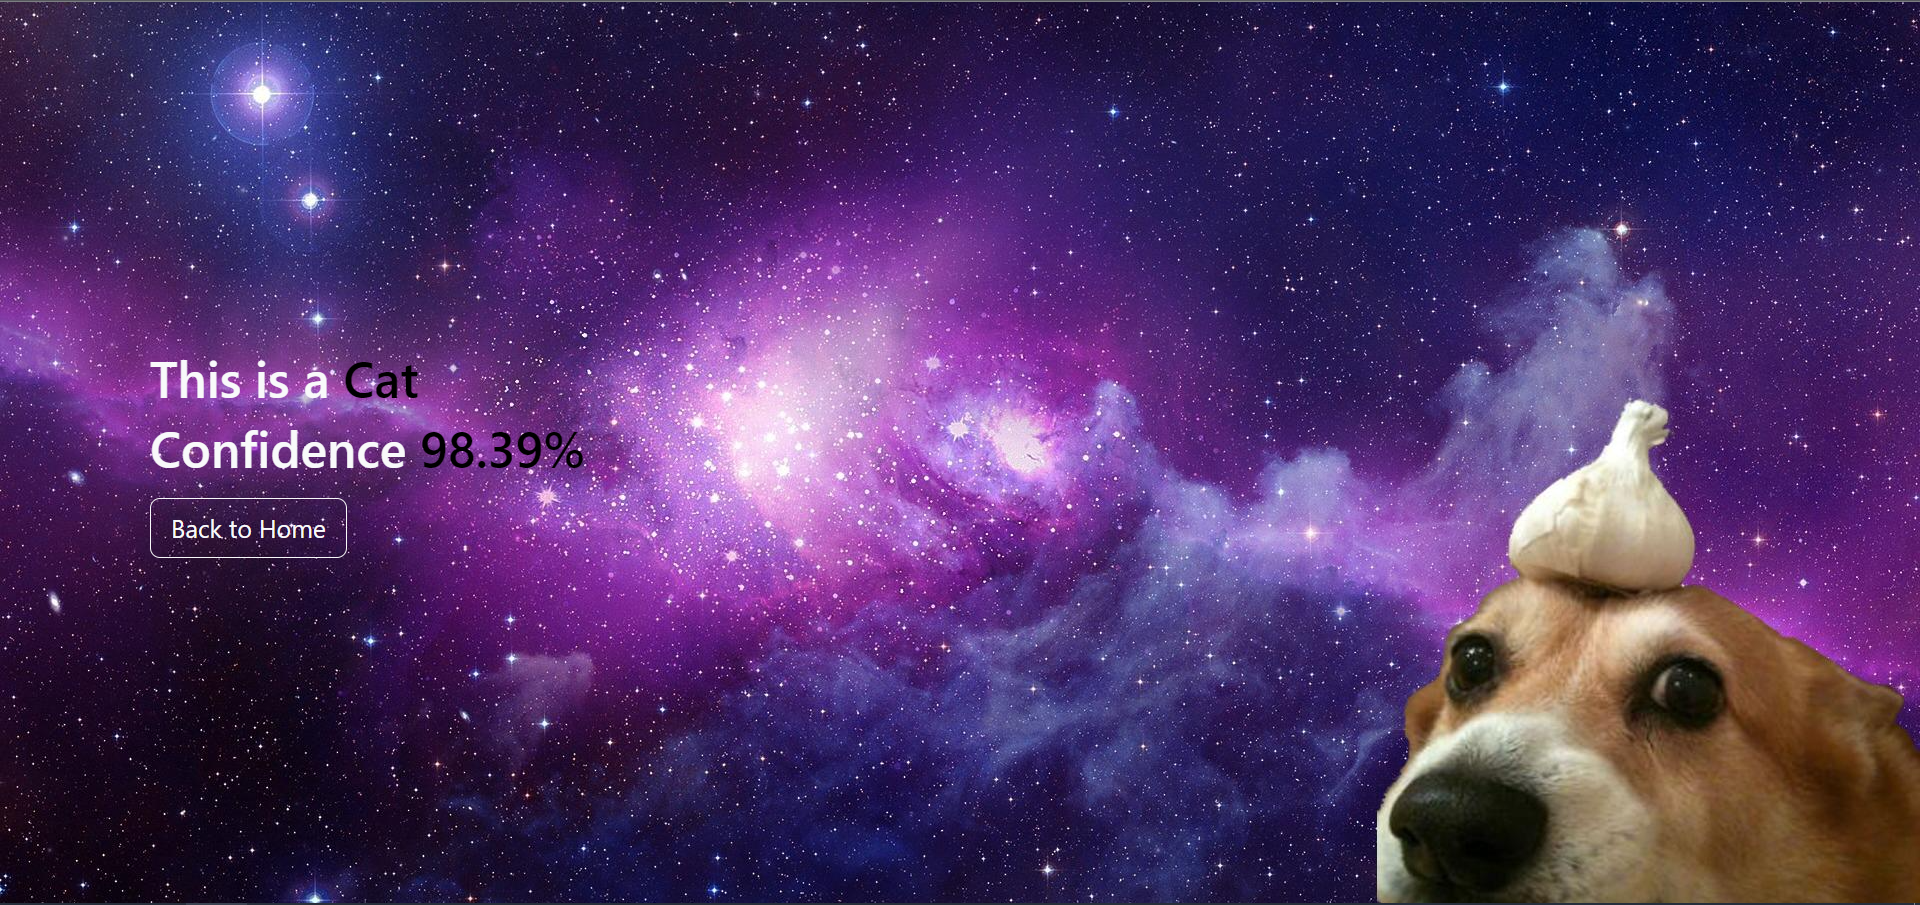
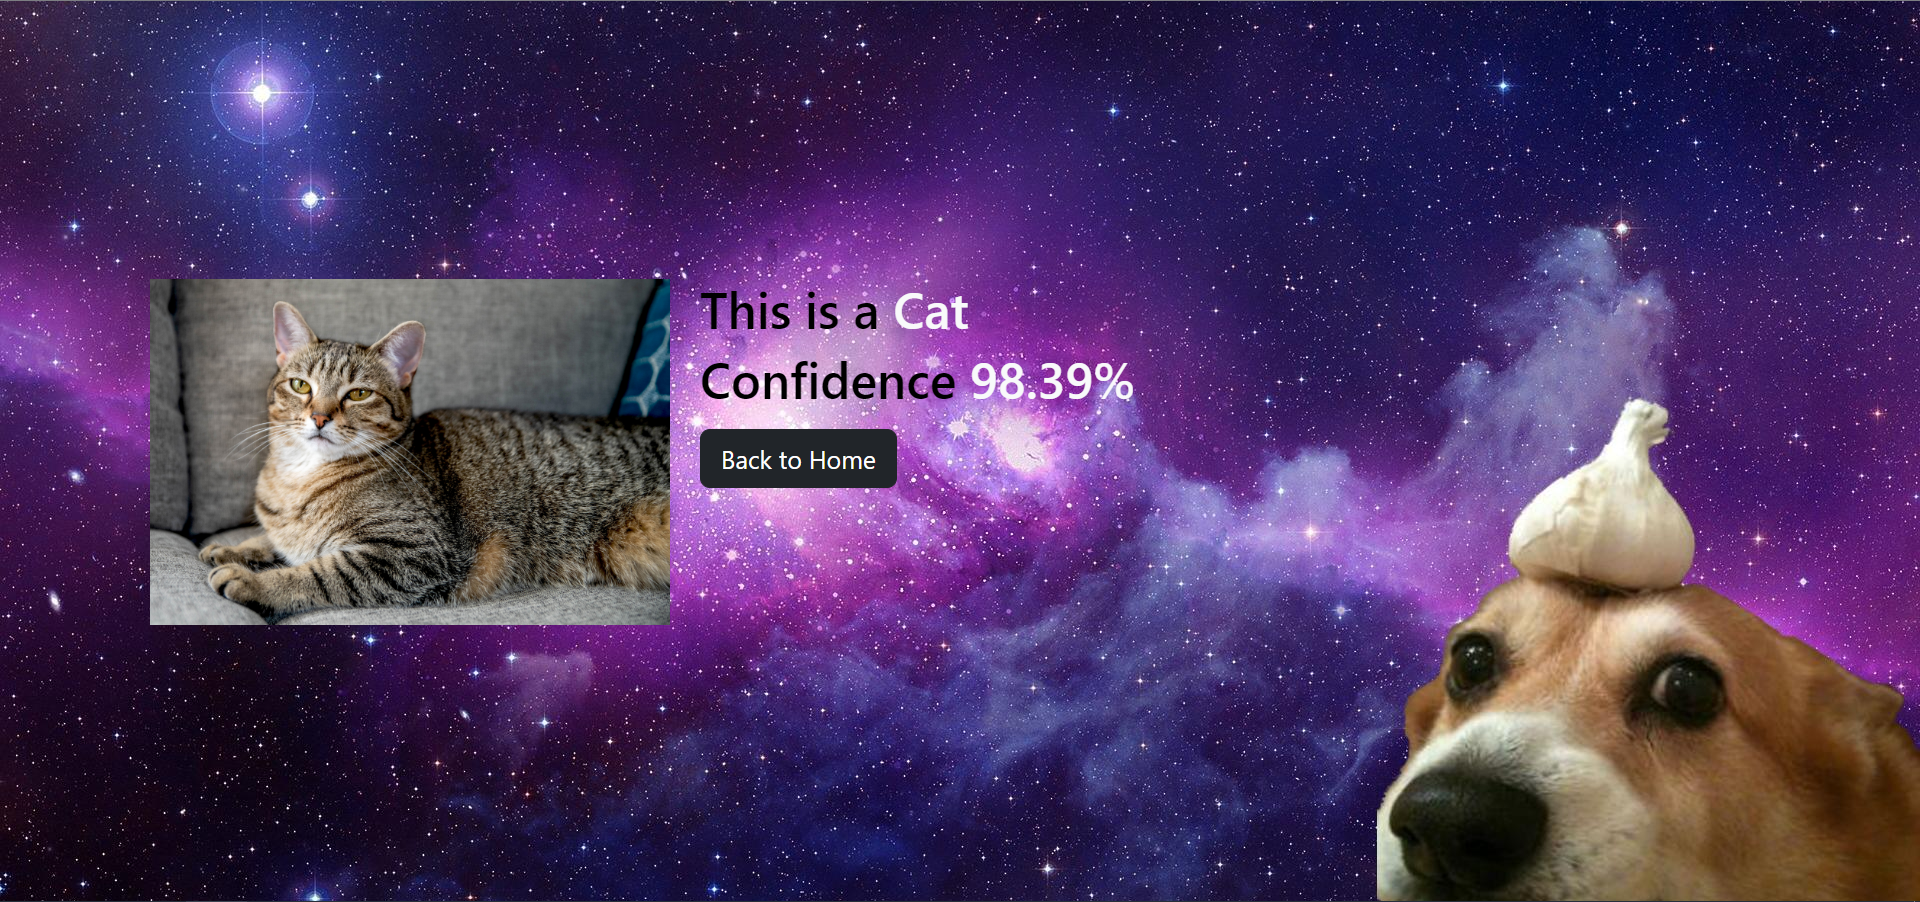
Added display of uploaded image in the classify template

diff --git a/templates/classify.html b/templates/classify.html
@@ -21,12 +21,19 @@
   </style>
 </head>
 <body class="bg-image">
-  <div class="container text-light vh-100 d-flex align-items-center">
-    <div>
-      <h1>This is a <span class="text-black">{{ label }}</span></h1>
-      <h1>Confidence <span class="text-black">{{ prediction }}%</span></h1>
-      <a class="btn btn-lg btn-outline-light mt-2" href="/">Back to Home</a>
+<div class="text-black vh-100 d-flex align-items-center">
+  <div class="container">
+    <div class="row">
+      <div class="col-4">
+        <img src="{{ upload_image_path }}" class="img-fluid">
+      </div>
+      <div class="col-4">
+        <h1>This is a <span class="text-light">{{ label }}</span></h1>
+        <h1>Confidence <span class="text-light">{{ prediction }}%</span></h1>
+        <a class="btn btn-dark btn-lg mt-2" href="/">Back to Home</a>
+      </div>
     </div>
   </div>
+</div>
 </body>
 </html>

diff --git a/app.py b/app.py
@@ -33,7 +33,12 @@ def make_prediction():
 
             prediction = round(prediction * 100, 2)
 
-            return render_template("classify.html", label=label, prediction=prediction)
+            return render_template(
+                "classify.html",
+                label=label,
+                prediction=prediction,
+                upload_image_path=upload_image_path
+            )
 
         return "Invalid image file format. Only JPG, JPEG and PNG are supported."
 
